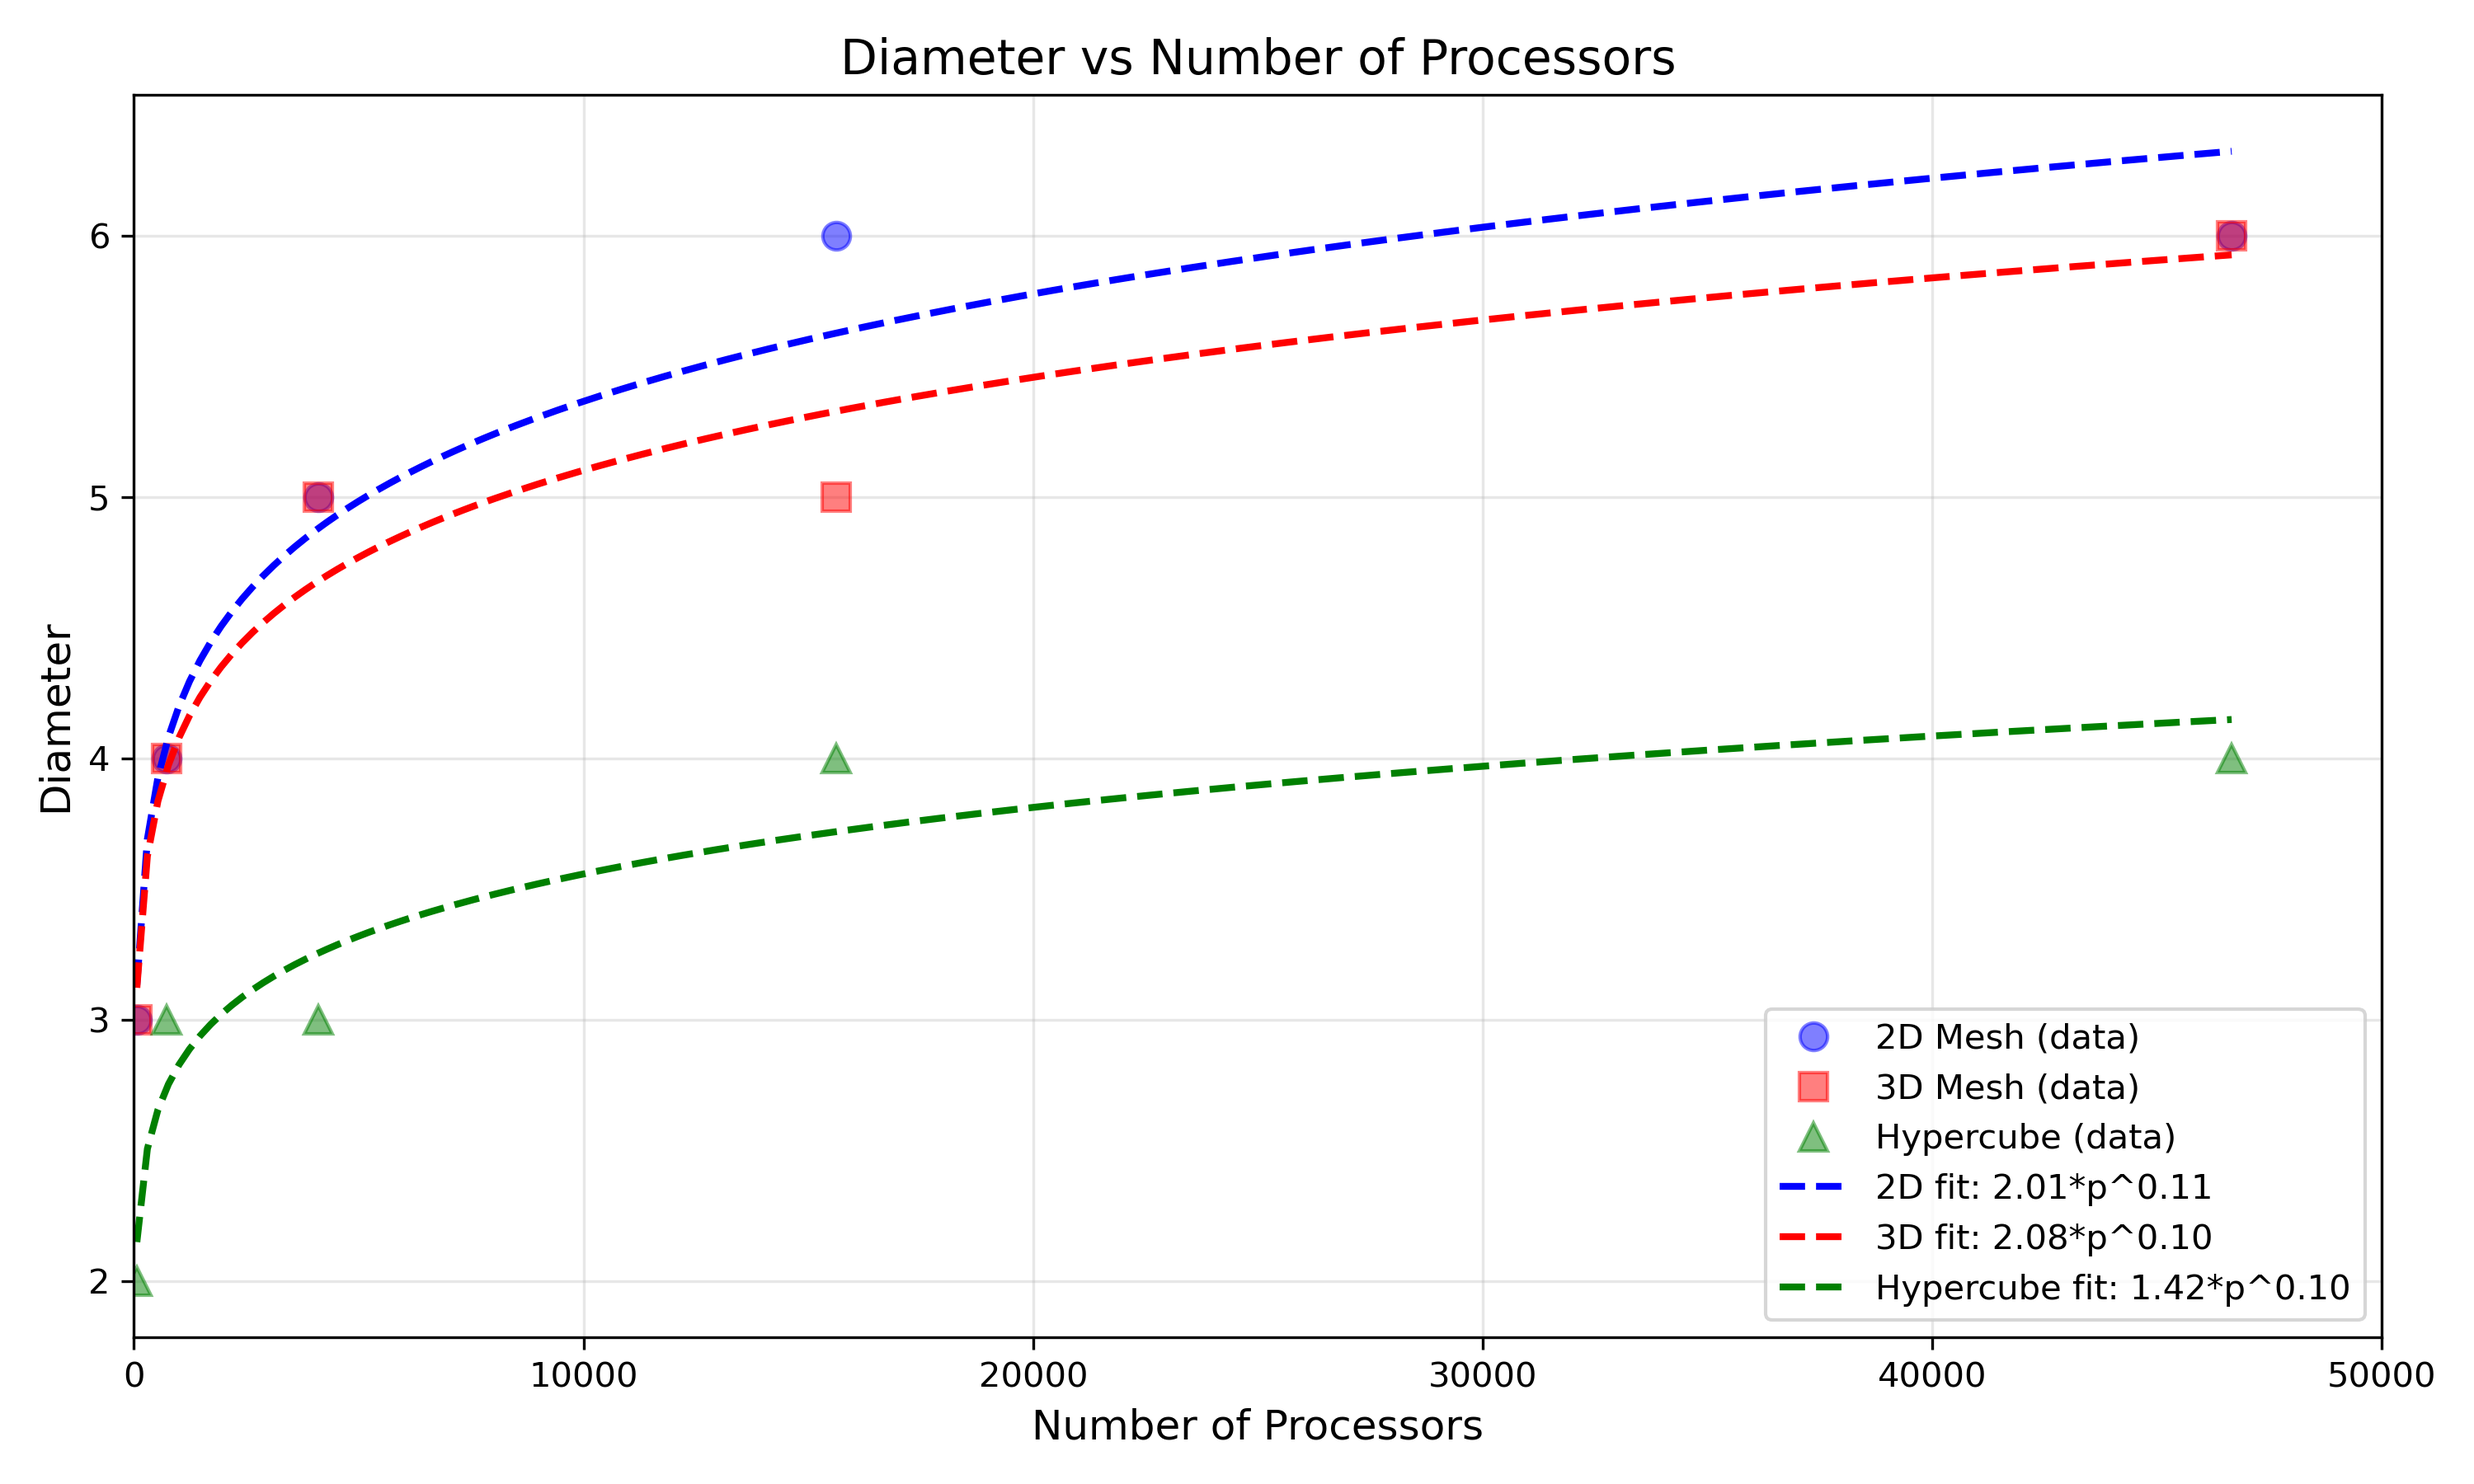
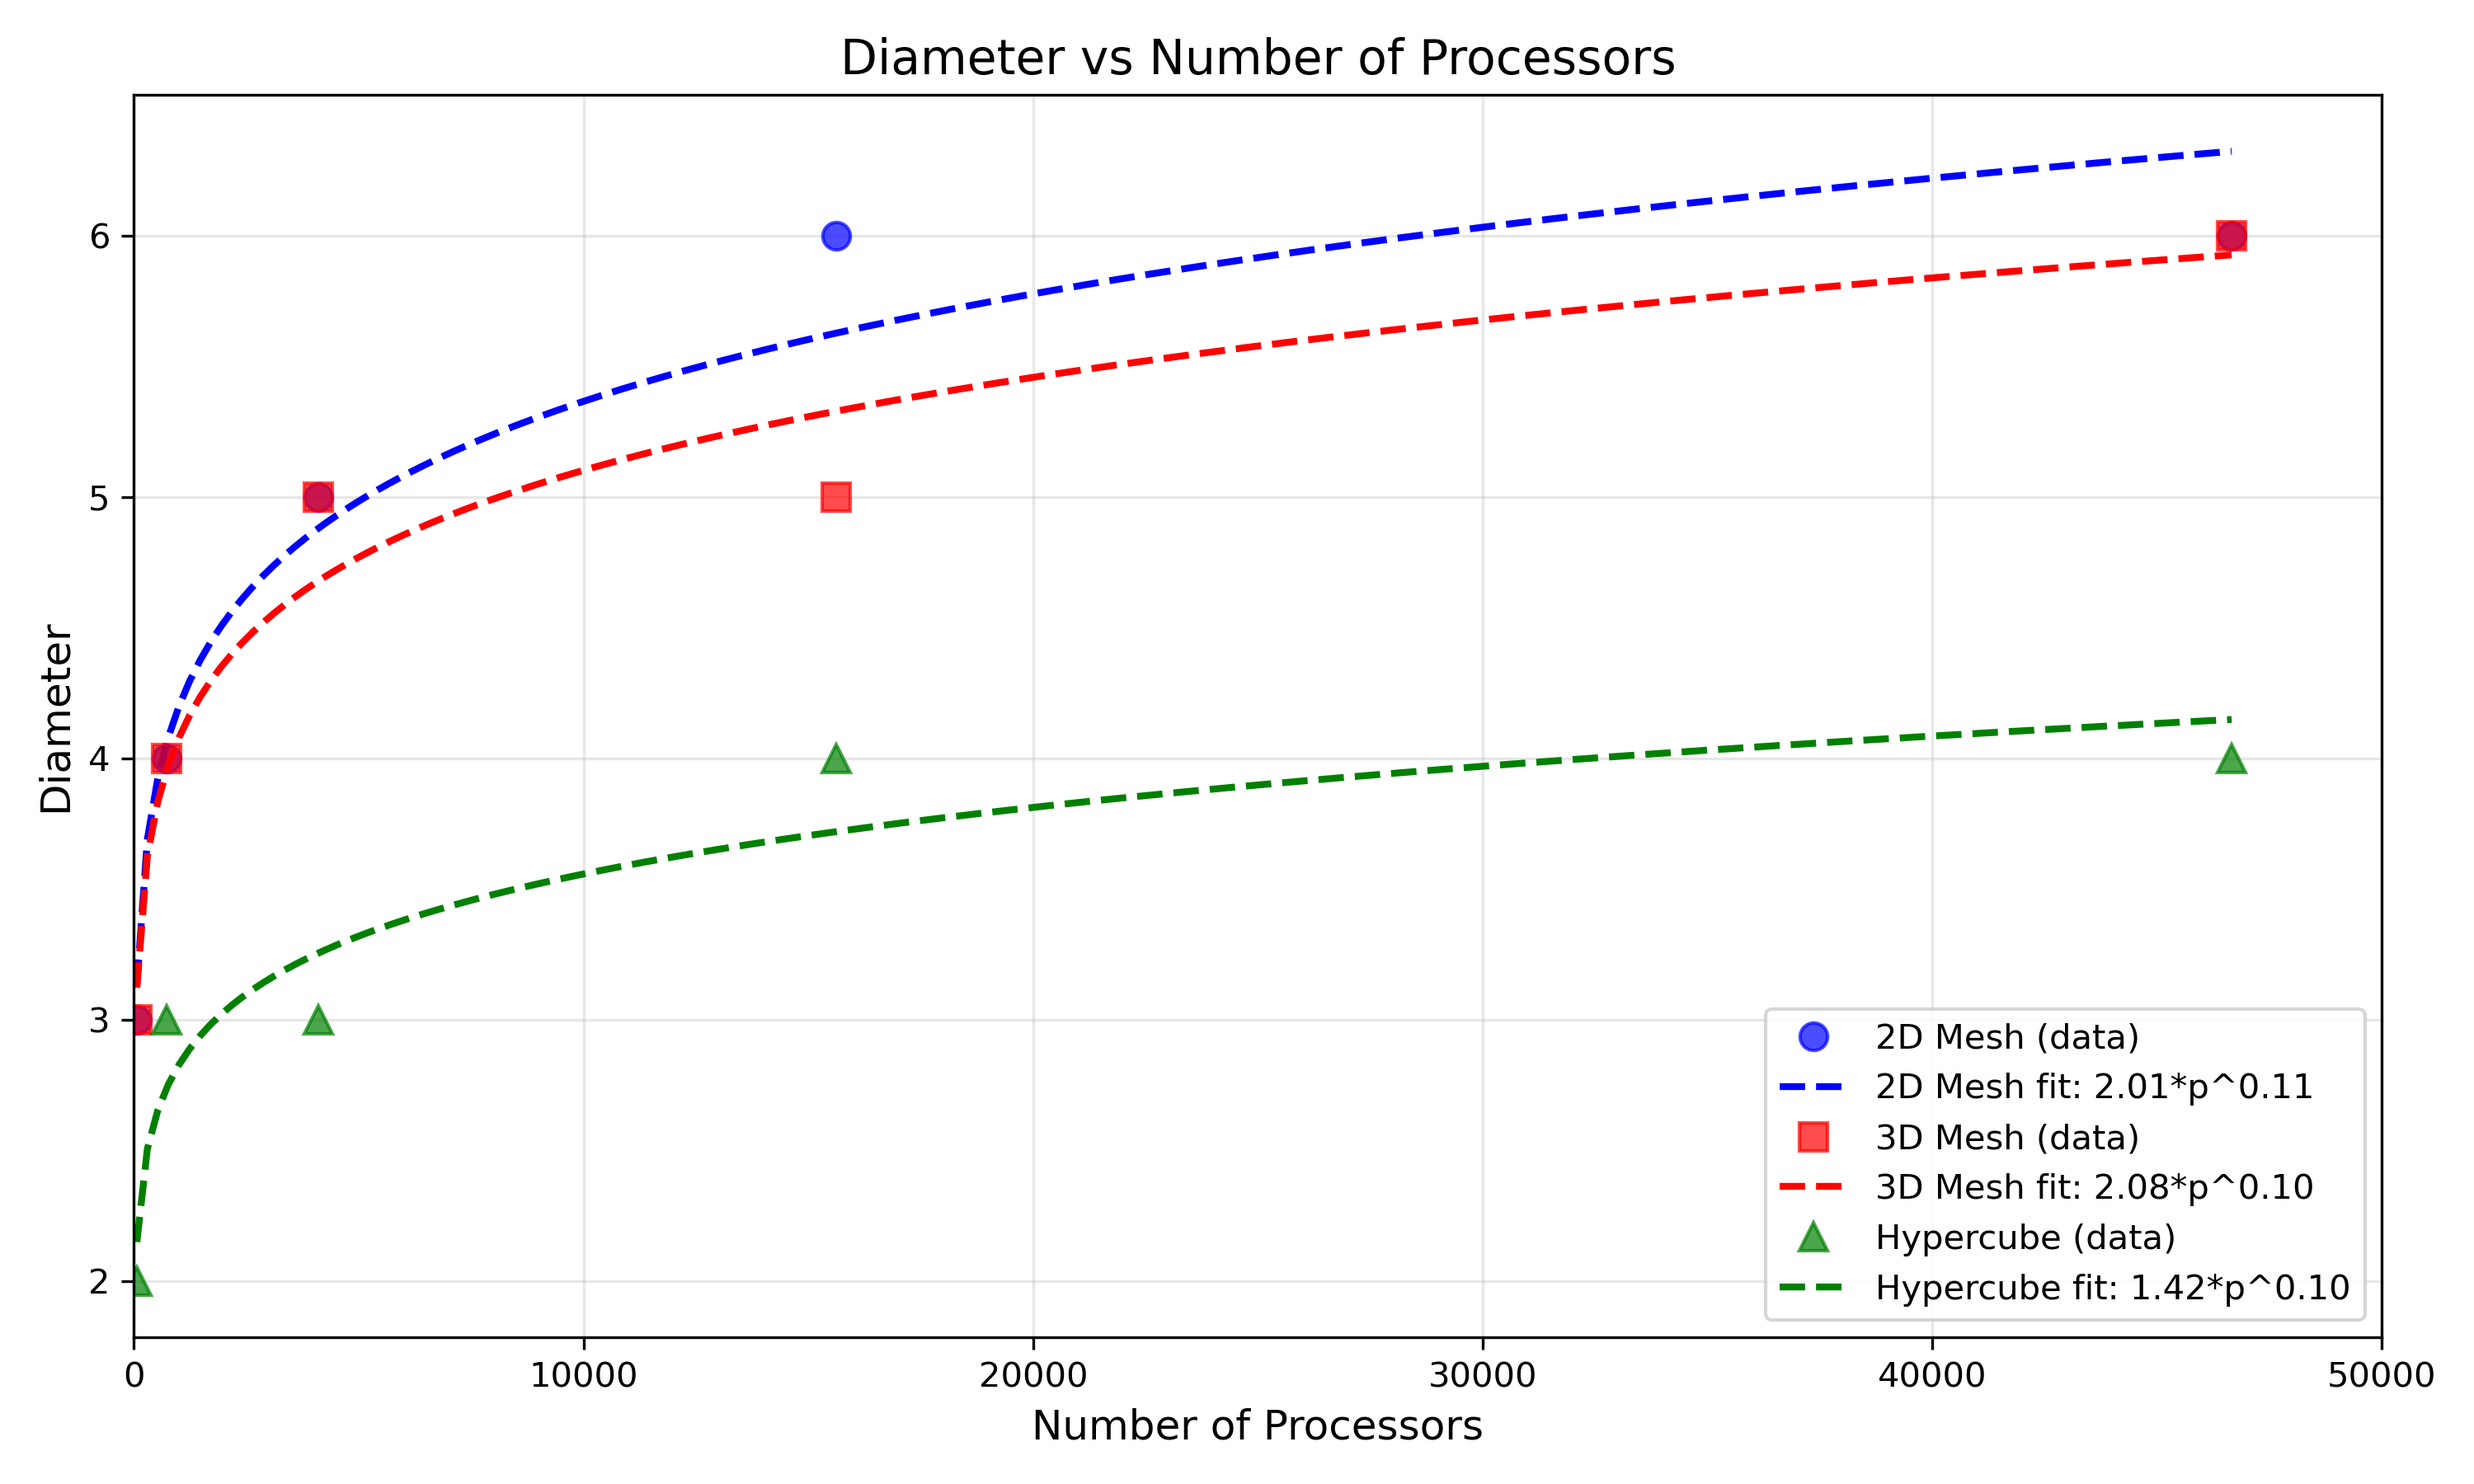
all plots

diff --git a/hw2_q6_plot.py b/hw2_q6_plot.py
@@ -2,69 +2,97 @@ import numpy as np
 import matplotlib.pyplot as plt
 from scipy.optimize import curve_fit
 
-# Data (actual data points only)
-processors = np.array([64, 729, 4096, 15625, 46656], dtype=float)
-diameter_2d = np.array([3, 4, 5, 6, 6], dtype=float)
-diameter_3d = np.array([3, 4, 5, 5, 6], dtype=float)
-diameter_hypercube = np.array([2, 3, 3, 4, 4], dtype=float)
+# Data
+processors = np.array([64, 729, 4096, 15625, 46656])
+diameter_data = {
+    '2D Mesh': np.array([3, 4, 5, 6, 6]),
+    '3D Mesh': np.array([3, 4, 5, 5, 6]),
+    'Hypercube': np.array([2, 3, 3, 4, 4])
+}
+bisection_data = {
+    '2D Mesh': np.array([150, 2049, 11955, 46211, 138788]),
+    '3D Mesh': np.array([173, 2297, 13653, 53084, 160259]),
+    'Hypercube': np.array([45, 192, 952, 4433, 20119])
+}
+dilation = np.array([3, 4, 5, 5, 6])
+congestion = np.array([7, 9, 15, 18, 24])
+colors = {'2D Mesh': 'blue', '3D Mesh': 'red', 'Hypercube': 'green'}
+markers = {'2D Mesh': 'o', '3D Mesh': 's', 'Hypercube': '^'}
 
-# Single generic model: fit curve from data only (no predefined exponent)
-# Power law: y = a * p^b  (both a and b estimated from data)
-def power_law(p, a, b):
-    return a * (p ** b)
+# Power law model: y = a * p^b
+power_law = lambda p, a, b: a * (p ** b)
+r_squared = lambda y_true, y_pred: 1 - np.sum((y_true - y_pred)**2) / np.sum((y_true - np.mean(y_true))**2)
 
-# Fit curves using only the data points (estimate a and b for each network)
-params_2d, _ = curve_fit(power_law, processors, diameter_2d)
-params_3d, _ = curve_fit(power_law, processors, diameter_3d)
-params_hypercube, _ = curve_fit(power_law, processors, diameter_hypercube)
+def plot_metric(data_dict, ylabel, title, filename):
+    """Plot metric with fitted curves"""
+    params = {name: curve_fit(power_law, processors, values)[0] 
+              for name, values in data_dict.items()}
+    
+    print(f"\n{title} fits:")
+    for name, (a, b) in params.items():
+        print(f"  {name}: {a:.3f} * p^{b:.3f}")
+    
+    p_smooth = np.linspace(processors.min(), processors.max(), 200)
+    plt.figure(figsize=(10, 6))
+    
+    for name, values in data_dict.items():
+        plt.plot(processors, values, markers[name], color=colors[name], 
+                 markersize=8, alpha=0.7, label=f'{name} (data)')
+        plt.plot(p_smooth, power_law(p_smooth, *params[name]), '--', 
+                 color=colors[name], linewidth=2,
+                 label=f'{name} fit: {params[name][0]:.2f}*p^{params[name][1]:.2f}')
+    
+    plt.xlim(0, 50000)
+    plt.xlabel('Number of Processors', fontsize=12)
+    plt.ylabel(ylabel, fontsize=12)
+    plt.title(title, fontsize=14)
+    plt.grid(True, alpha=0.3)
+    plt.legend(fontsize=10)
+    plt.tight_layout()
+    plt.savefig(filename, dpi=300)
+    plt.show()
+    
+    print(f"\n{title} R² values:")
+    for name, values in data_dict.items():
+        r2 = r_squared(values, power_law(processors, *params[name]))
+        print(f"  {name}: {r2:.4f}")
 
-print(f"2D Mesh estimated fit: {params_2d[0]:.3f} * p^{params_2d[1]:.3f}")
-print(f"3D Mesh estimated fit: {params_3d[0]:.3f} * p^{params_3d[1]:.3f}")
-print(f"Hypercube estimated fit: {params_hypercube[0]:.3f} * p^{params_hypercube[1]:.3f}")
-print(f"\nData points - Processors: {processors}")
-print(f"2D diameters: {diameter_2d}")
-print(f"3D diameters: {diameter_3d}")
-print(f"Hypercube diameters: {diameter_hypercube}")
+def plot_single_metric(values, ylabel, title, filename, color='blue', marker='o'):
+    """Plot single metric with fitted curve"""
+    params = curve_fit(power_law, processors, values)[0]
+    a, b = params
+    
+    print(f"\n{title} fit: {a:.3f} * p^{b:.3f}")
+    
+    p_smooth = np.linspace(processors.min(), processors.max(), 200)
+    plt.figure(figsize=(10, 6))
+    
+    plt.plot(processors, values, marker, color=color, markersize=8, alpha=0.7, label='Data')
+    plt.plot(p_smooth, power_law(p_smooth, *params), '--', color=color, linewidth=2,
+             label=f'Fit: {a:.2f}*p^{b:.2f}')
+    
+    plt.xlim(0, 50000)
+    plt.xlabel('Number of Processors', fontsize=12)
+    plt.ylabel(ylabel, fontsize=12)
+    plt.title(title, fontsize=14)
+    plt.grid(True, alpha=0.3)
+    plt.legend(fontsize=10)
+    plt.tight_layout()
+    plt.savefig(filename, dpi=300)
+    plt.show()
+    
+    r2 = r_squared(values, power_law(processors, *params))
+    print(f"{title} R²: {r2:.4f}")
 
-# Smooth curve for plotting: linear x from min to max processor value
-p_smooth = np.linspace(processors.min(), processors.max(), 200)
+# Plot diameter
+plot_metric(diameter_data, 'Diameter', 'Diameter vs Number of Processors', 'diameter_comparison.png')
 
-# Create the plot: data points + curves estimated from those points
-# Use linear x-axis 0--45000 like the reference plot
-plt.figure(figsize=(10, 6))
-plt.plot(processors, diameter_2d, 'o', color='blue', markersize=8, alpha=0.5, label='2D Mesh (data)')
-plt.plot(processors, diameter_3d, 's', color='red', markersize=8, alpha=0.5, label='3D Mesh (data)')
-plt.plot(processors, diameter_hypercube, '^', color='green', markersize=8, alpha=0.5, label='Hypercube (data)')
+# Plot bisection width
+plot_metric(bisection_data, 'Bisection Width', 'Bisection Width vs Number of Processors', 'bisection_comparison.png')
 
-plt.plot(p_smooth, power_law(p_smooth, *params_2d), '--', color='blue', linewidth=2,
-         label=f'2D fit: {params_2d[0]:.2f}*p^{params_2d[1]:.2f}')
-plt.plot(p_smooth, power_law(p_smooth, *params_3d), '--', color='red', linewidth=2,
-         label=f'3D fit: {params_3d[0]:.2f}*p^{params_3d[1]:.2f}')
-plt.plot(p_smooth, power_law(p_smooth, *params_hypercube), '--', color='green', linewidth=2,
-         label=f'Hypercube fit: {params_hypercube[0]:.2f}*p^{params_hypercube[1]:.2f}')
+# Plot dilation
+plot_single_metric(dilation, 'Dilation', 'Dilation vs Number of Processors', 'dilation_comparison.png', color='purple', marker='D')
 
-plt.xlim(0, 50000)  # Extend to show all data points including 46656
-plt.xlabel('Number of Processors', fontsize=12)
-plt.ylabel('Diameter', fontsize=12)
-plt.title('Diameter vs Number of Processors', fontsize=14)
-plt.grid(True, alpha=0.3)
-plt.legend(fontsize=10)
-plt.tight_layout()
-plt.savefig('diameter_comparison.png', dpi=300)
-plt.show()
-
-# R² using the estimated curves evaluated at the data points
-def r_squared(y_true, y_pred):
-    ss_res = np.sum((y_true - y_pred) ** 2)
-    ss_tot = np.sum((y_true - np.mean(y_true)) ** 2)
-    return 1 - (ss_res / ss_tot)
-
-r2_2d = r_squared(diameter_2d, power_law(processors, *params_2d))
-r2_3d = r_squared(diameter_3d, power_law(processors, *params_3d))
-r2_hypercube = r_squared(diameter_hypercube, power_law(processors, *params_hypercube))
-
-print(f"\nR² values:")
-print(f"2D Mesh: {r2_2d:.4f}")
-print(f"3D Mesh: {r2_3d:.4f}")
-print(f"Hypercube: {r2_hypercube:.4f}")
+# Plot congestion
+plot_single_metric(congestion, 'Congestion', 'Congestion vs Number of Processors', 'congestion_comparison.png', color='orange', marker='x')
 
